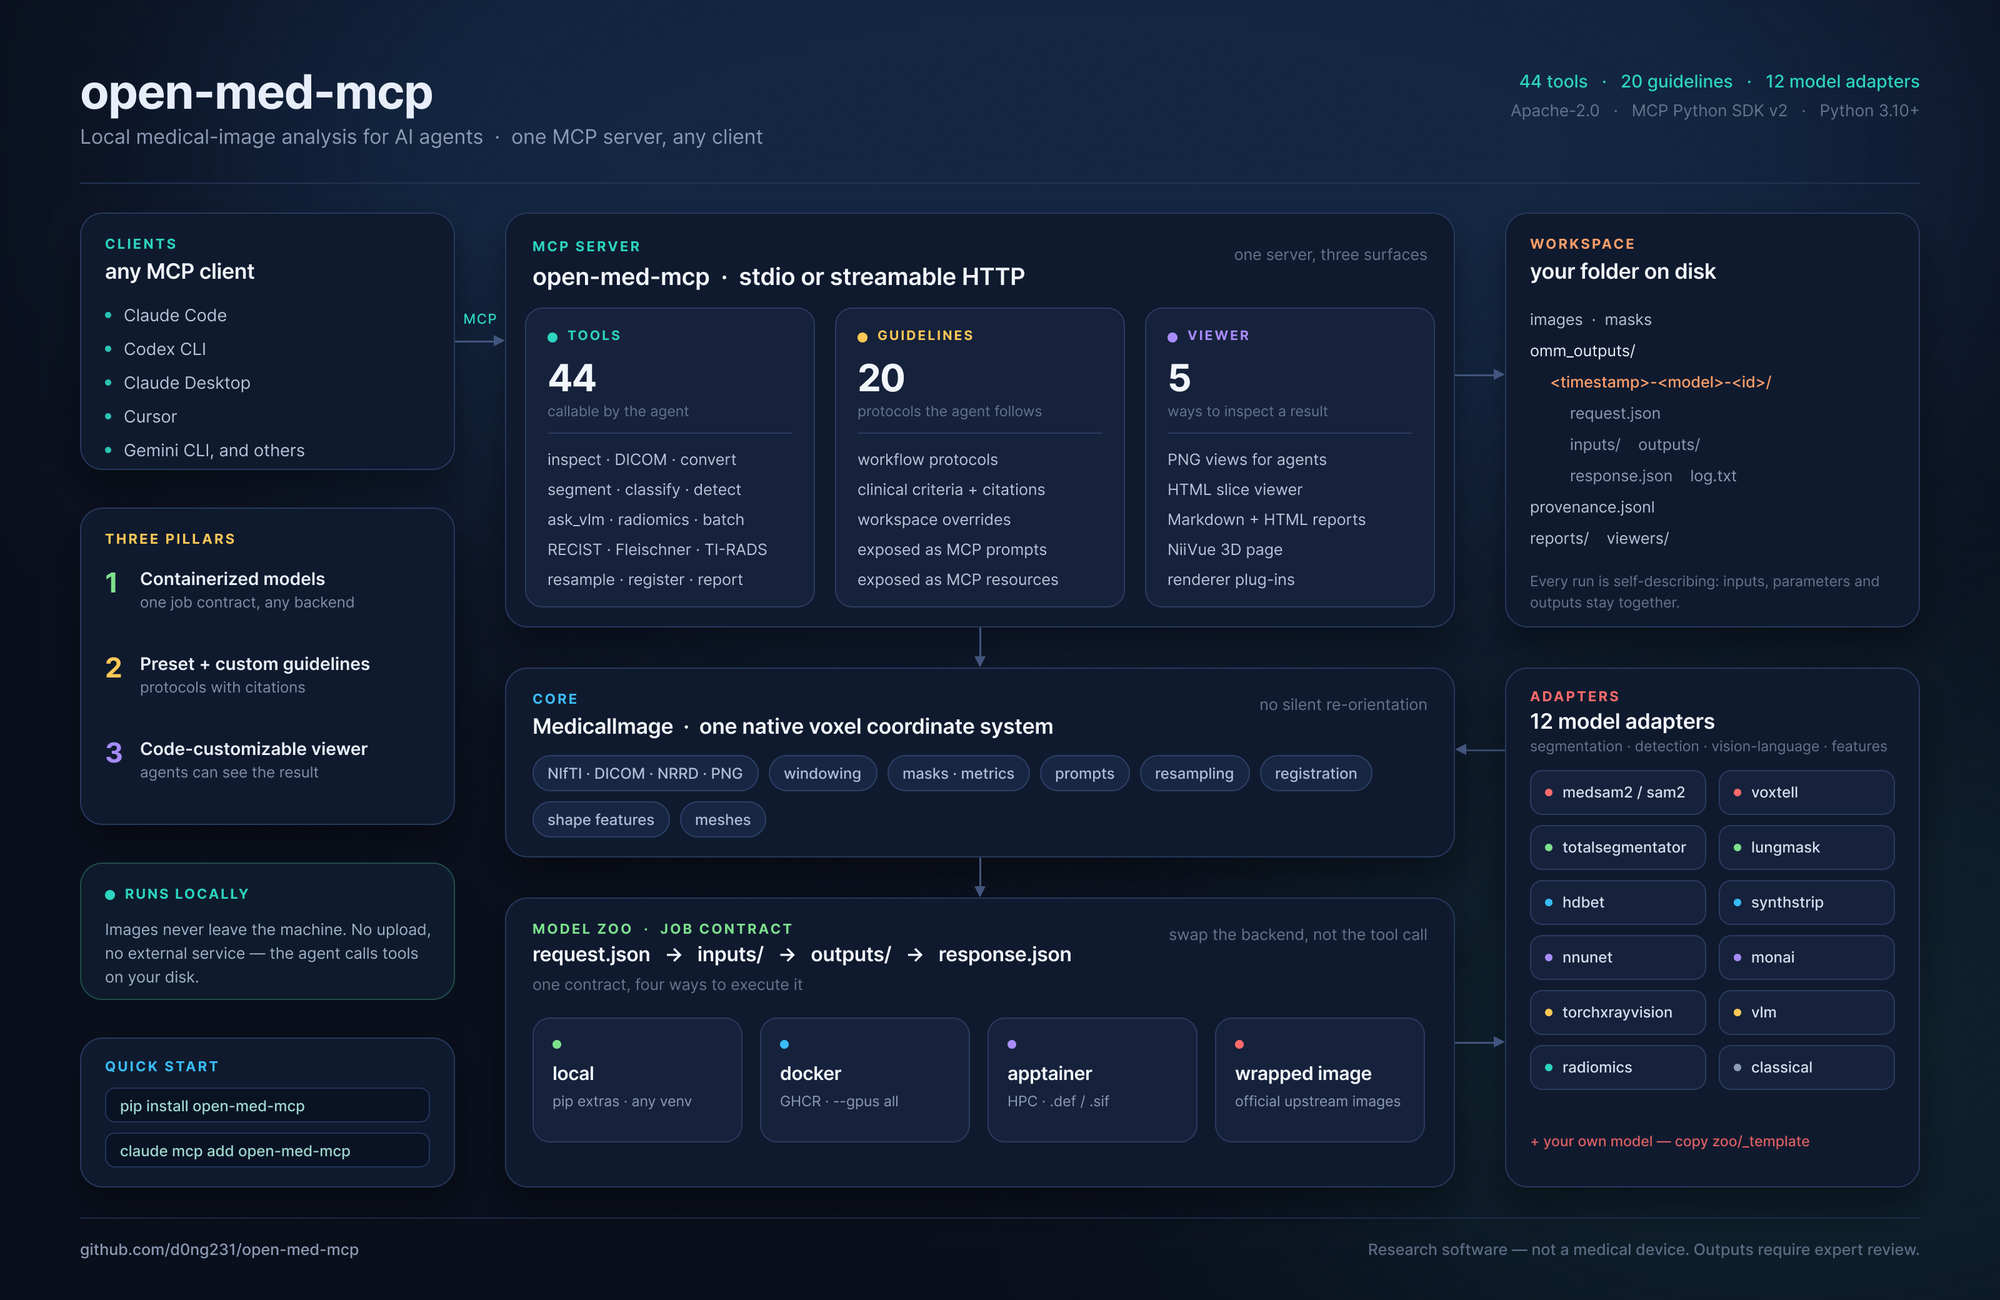
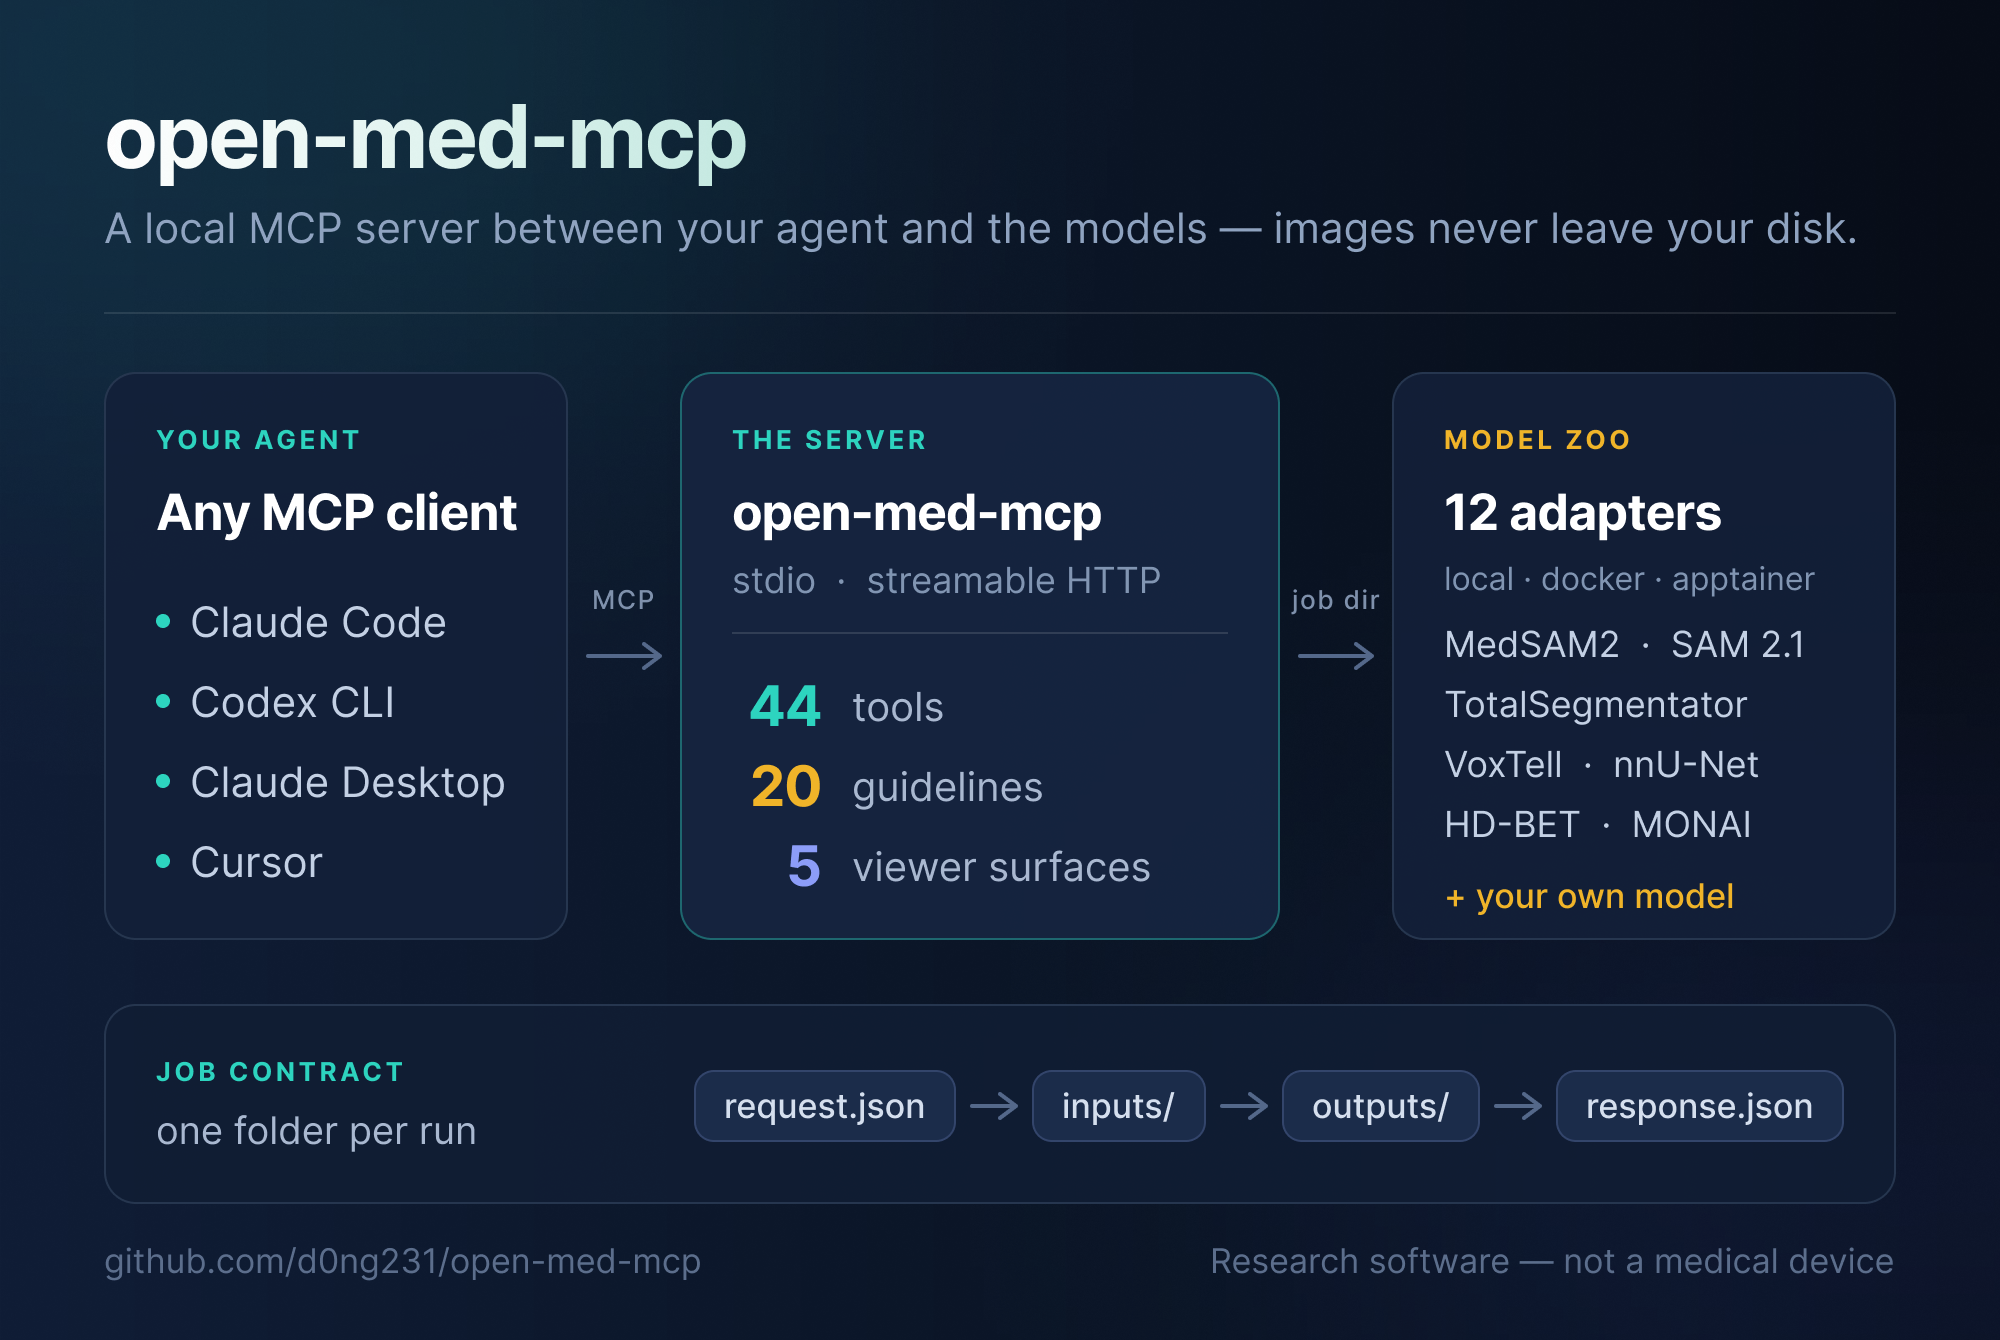
design: simplify the overview diagram and enlarge the header type
The overview read like a dense web page rather than a README figure: it was
drawn on a 1600px frame but rendered at 900px, so body copy landed at roughly
9px on screen, and eight panels competed for attention.

- Redraw it on a 1000px frame (rendered at 900px, so type is near 1:1) with
  three cards and one strip instead of eight panels: agent -> server -> model
  zoo, plus the job-directory contract. Body copy goes 14px -> 21px, headings
  25px, title 44px.
- Drop the three-pillars panel and the per-tool/guideline/viewer lists; the
  README already carries them in the pillars table directly above the figure.
- Enlarge the banner lockup (wordmark 58px -> 64px on a 900px frame shown at
  900px) and centre it.
- Make both images fully opaque, square-cornered and alpha-free so no page
  background can show through in either GitHub theme.

Counts verified against the running server: 44 tools, 20 guidelines,
12 adapters.

Changed region(s): [[0.0, 0.0, 0.992, 1.0], [0.341, 0.7692, 0.93, 0.8923], [0.589, 0.9231, 0.961, 0.9846]]

diff --git a/README.md b/README.md
@@ -1,5 +1,5 @@
 <p align="center">
-  <img src="docs/assets/banner.png" alt="open-med-mcp" width="720">
+  <img src="docs/assets/banner.png" alt="open-med-mcp" width="900">
 </p>
 
 <p align="center">
